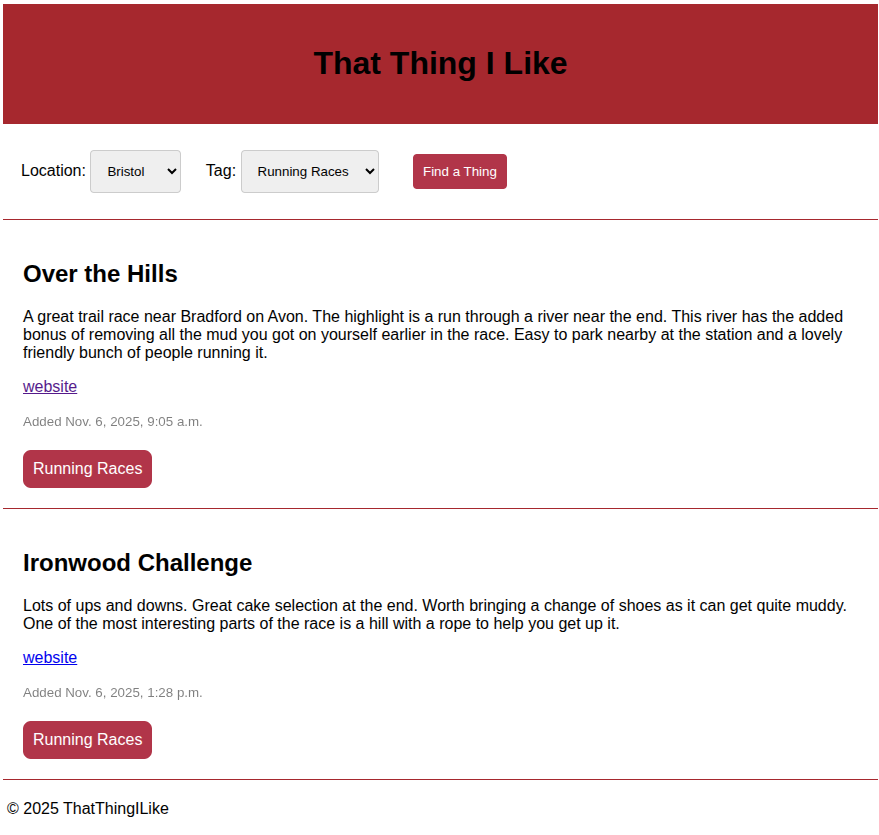
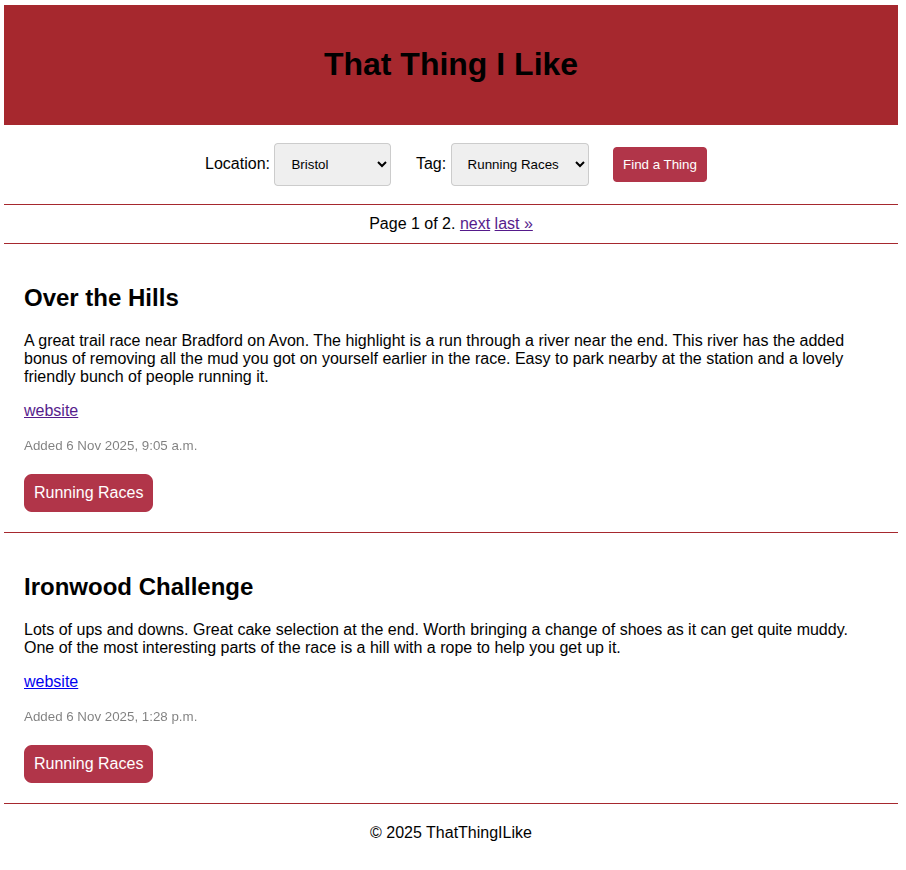
Add pagination

diff --git a/thatthingilike/templates/thatthingilike/index.html b/thatthingilike/templates/thatthingilike/index.html
@@ -13,11 +13,28 @@
         <input type="submit" value="Find a Thing" class="nav-submit" />
     </div>
 </form>
+<div class="pagination">
+    <span class="step-links">
+        {% if page_obj.has_previous %}
+            <a href="?page=1&location={{selected_location}}&tag={{selected_tag}}">&laquo; first</a>
+            <a href="?page={{ page_obj.previous_page_number }}&location={{selected_location}}&tag={{selected_tag}}">previous</a>
+        {% endif %}
+
+        <span class="current">
+            Page {{ page_obj.number }} of {{ page_obj.paginator.num_pages }}.
+        </span>
+
+        {% if page_obj.has_next %}
+            <a href="?page={{ page_obj.next_page_number }}&location={{selected_location}}&tag={{selected_tag}}">next</a>
+            <a href="?page={{ page_obj.paginator.num_pages }}&location={{selected_location}}&tag={{selected_tag}}">last &raquo;</a>
+        {% endif %}
+    </span>
+</div>
 {% endblock %}
 
 
 {% block main %}
-{% for thing in things %}
+{% for thing in page_obj %}
     <div class="thing">
         <h2>{{ thing.title }}</h2>
         <p>{{ thing.description }}</p>

diff --git a/thatthingilike/static/thatthingilike/style.css b/thatthingilike/static/thatthingilike/style.css
@@ -11,12 +11,13 @@ header {
 }
 
 nav {
-    padding: 8px;
     border-bottom: 1px solid #a6282e;
+    text-align: center;
 }
 
 footer {
     padding: 4px;
+    text-align: center;
 }
 
 .navigation .locations,
@@ -27,7 +28,14 @@ footer {
 .navigation .nav-submit {
     display:inline-block;
     padding: 10px;
-    margin-left: 20px;
+    margin-left: 10px;
+}
+
+.pagination {
+    border-top: 1px solid #a6282e;
+    padding-bottom: 10px;
+    padding-top: 10px;
+    text-align: center;
 }
 
 .thing {

diff --git a/thatthingilike/views.py b/thatthingilike/views.py
@@ -3,12 +3,17 @@ from django.shortcuts import render
 from .models import Thing
 from .forms import TagForm, LocationForm
 
+from django.core.paginator import Paginator
+
 def index(request):
     
     tag = request.GET.get('tag', None)
     location = request.GET.get('location', None)
 
     things = Thing.objects.filter(tag=tag, location=location)
+    paginator = Paginator(things, 2) 
+    page_number = request.GET.get("page")
+    page_obj = paginator.get_page(page_number)
 
     # get location dropdown
     locations = LocationForm(initial={'location': location})
@@ -18,6 +23,10 @@ def index(request):
 
     return render(request, 
                     template_name='thatthingilike/index.html',
-                    context={'things': things, 
-                             'locations': locations,
-                             'tags': tags})
+                    context={
+                        'locations': locations,
+                        'tags': tags,
+                        'selected_location': location,
+                        'selected_tag': tag,                             
+                        "page_obj": page_obj
+                    })

diff --git a/README.md b/README.md
@@ -7,7 +7,7 @@ An app that lists things I like divided by location and tag. A tag being somethi
 ## Key features
 - Uses Postgres as the database
 - Uses python-decouple to seperate out env variables.
--
+- Pagination using Django's Paginator
 
 ## Environment variables required
 
